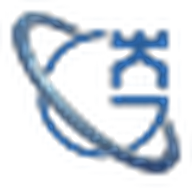
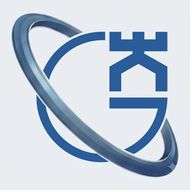
Add files via upload

Changed region(s): [[0.0312, 0.0312, 0.9688, 0.9375], [0.3125, 0.5, 0.3438, 0.5312]]

diff --git a/index.html b/index.html
@@ -14,7 +14,7 @@
 <meta name="theme-color" content="#1C5AA5">
 <title>大坂組社内ポータルサイト</title>
[2 lines of base64/hex data omitted]
+<link rel="apple-touch-icon" href="icon-180.png">
 <style>
   :root{
     --brand:#1C5AA5;
